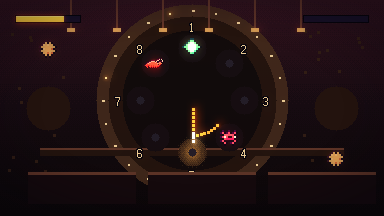
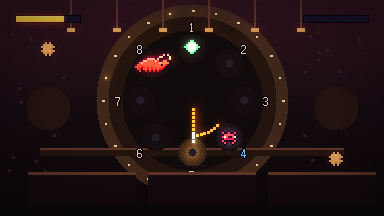
feat: show the tide, the tears, and the swap (#44)
虾熔 draws the tide direction and the drops left before it pushes.
虾网 draws a tear as a red hole and a wet knot as a drip. 虾钟 draws
you full size and marks the opposite number of a swap.

Changed region(s): [[0.3438, 0.25, 0.4688, 0.3611], [0.625, 0.6944, 0.6562, 0.7222]]

diff --git a/web/src/games/claw-clock.ts b/web/src/games/claw-clock.ts
@@ -87,6 +87,9 @@ function createScene(): GameScene<ClockState> {
       blit(g, gear, 48, 48 + spin, { scale: 2, anchor: 'c' });
       blit(g, gear, 336, 160 - spin, { scale: 2, anchor: 'c' });
       const slide = spun * Math.max(0, 1 - f.since / 0.45) * ((Math.PI * 2) / 8);
+      const youAt = state.ring.indexOf('you');
+      const swap = youAt >= 0 && f.actions.some((action) => action.id === 'cross');
+      const opposite = (youAt + 4) % 8;
       state.ring.forEach((token, index) => {
         const angle = (index / 8) * Math.PI * 2 - Math.PI / 2 - slide;
         const x = 192 + Math.round(Math.cos(angle) * 52);
@@ -94,15 +97,20 @@ function createScene(): GameScene<ClockState> {
         const bob = Math.round(Math.sin(t * 3 + index) * 1);
         disc(g, x, y, 14, index === state.hand ? '#3a2418' : '#1a1014');
         if (index === state.hand) glow(g, x, y, 18, '#ffc24a', 0.55);
+        if (swap && index === opposite) glow(g, x, y, 16, '#7ec8ff', 0.55);
         const sprite = tokenSprite(token);
-        if (sprite) blit(g, sprite, x, y + bob, { scale: token === 'you' ? 1 : 2, anchor: 'c' });
+        if (sprite) blit(g, sprite, x, y + bob, { scale: 2, anchor: 'c' });
         else disc(g, x, y, 4, '#2a2430');
       });
       state.ring.forEach((_token, index) => {
         const angle = (index / 8) * Math.PI * 2 - Math.PI / 2 - slide;
         const x = 192 + Math.round(Math.cos(angle) * 74);
         const y = 100 + Math.round(Math.sin(angle) * 74);
-        drawText(g, String(index + 1), x, y - 4, { color: '#e8d0a0', align: 'center' });
+        const marked = swap && index === opposite;
+        drawText(g, String(index + 1), x, y - 4, {
+          color: marked ? '#7ec8ff' : '#e8d0a0',
+          align: 'center',
+        });
       });
       const hand = (state.hand / 8) * Math.PI * 2 - Math.PI / 2;
       const slot = (Math.PI * 2) / 8;

diff --git a/web/src/games/claw-melt.ts b/web/src/games/claw-melt.ts
@@ -174,6 +174,16 @@ function createScene(): GameScene<MeltState> {
         });
       }
       pips(g, 16, 16, state.winSize, state.maxSize, '#ffb08a', -1, t);
+      const sinceTide = state.drops % state.tiltEvery;
+      const tideSoon = sinceTide === state.tiltEvery - 1;
+      const tideY = OY + WELL_H * CH + 12;
+      const tideColor = tideSoon ? '#fff6dc' : '#7ec8ff';
+      for (let i = 0; i < 4; i += 1) {
+        const x = state.tiltDir < 0 ? OX + 120 - i * 16 : OX + 40 + i * 16;
+        rect(g, x, tideY, 10, 3, tideColor);
+        rect(g, state.tiltDir < 0 ? x - 3 : x + 8, tideY - 2, 3, 7, tideColor);
+      }
+      pips(g, OX + 8, tideY + 8, state.tiltEvery, sinceTide, '#7ec8ff', -1, t);
       drawText(g, String(state.points), 300, 120, { color: '#ffc24a', align: 'left', scale: 2 });
     },
     react(f, outcome) {

diff --git a/web/src/games/claw-net.ts b/web/src/games/claw-net.ts
@@ -101,10 +101,12 @@ function createScene(): GameScene<NetState> {
           rect(g, px, py + 8, CW - 4, 1, '#c4a888');
           rect(g, px + 16, py, 1, CH, '#c4a888');
           if (knot === 'torn') {
-            disc(g, px + 18, py + 10, 7, '#0a2840');
-            disc(g, px + 16, py + 8, 3, '#7ec8ff');
+            disc(g, px + 18, py + 10, 8, '#ff5d73');
+            disc(g, px + 18, py + 10, 5, '#061018');
           } else if (knot === 'wet') {
-            disc(g, px + 18, py + 10, 5, '#3a6a88');
+            disc(g, px + 18, py + 8, 5, '#7ec8ff');
+            rect(g, px + 16, py + 12, 3, 6, '#7ec8ff');
+            glow(g, px + 18, py + 10, 8, '#7ec8ff', 0.35);
           } else if (knot === 'gap') {
             rect(g, px + 8, py + 6, 16, 8, '#1a1008');
           } else {

diff --git a/docs/plans/2026-11-15-tide-knot-you.md b/docs/plans/2026-11-15-tide-knot-you.md
@@ -1,0 +1,20 @@
+# Tide, knots, and you — 虾熔, 虾网, 虾钟
+
+## Goal
+
+Three pictures still hide the decision the engine already makes.
+
+- 虾熔 pushes the top shell on a known tide, but the well never shows the direction or how close that push is.
+- 虾网 makes wet knots the ones about to rip, and they read as the same blue as the harbor.
+- 虾钟 draws you at half the size of a foe, and the opposite slot of 对换 is unmarked.
+
+## Scope
+
+Scenes and covers only.
+
+## Checklist
+
+- [x] Tide chevrons and a drop pip on the melt well
+- [x] Torn holes and wet drips on the net
+- [x] You at full size, opposite slot marked when 对换 is legal
+- [x] Covers and a dev-server look

diff --git a/docs/plans/README.md b/docs/plans/README.md
@@ -3,7 +3,8 @@
 Write a new plan here before a large change: a new game, an engine rewrite, an
 MCP or leaderboard change, or a docs restructure.
 
-Current working plans: [`2026-11-15-path-read.md`](2026-11-15-path-read.md),
+Current working plans: [`2026-11-15-tide-knot-you.md`](2026-11-15-tide-knot-you.md),
+[`2026-11-15-path-read.md`](2026-11-15-path-read.md),
 [`2026-11-15-window-ring.md`](2026-11-15-window-ring.md),
 [`2026-11-15-raft-stow-feel.md`](2026-11-15-raft-stow-feel.md),
 [`2026-11-15-ferry-depth.md`](2026-11-15-ferry-depth.md),

diff --git a/CHANGELOG.md b/CHANGELOG.md
@@ -2,6 +2,9 @@
 
 ## Unreleased
 
+- `虾熔` shows which way the next tide pushes, and how many drops are left
+  before it. `虾网` draws a tear as a hole and a wet knot as a drip. `虾钟`
+  draws you at the same size as a foe, and marks the opposite slot of a swap.
 - `虾数` puts the step button in the water, under the planks. `虾罩` shows
   the flood before it reaches you. `虾钟` sweeps the hand across the slot it
   just turned. `虾拨` crosses a gorge with walls, a fall, and mist.
